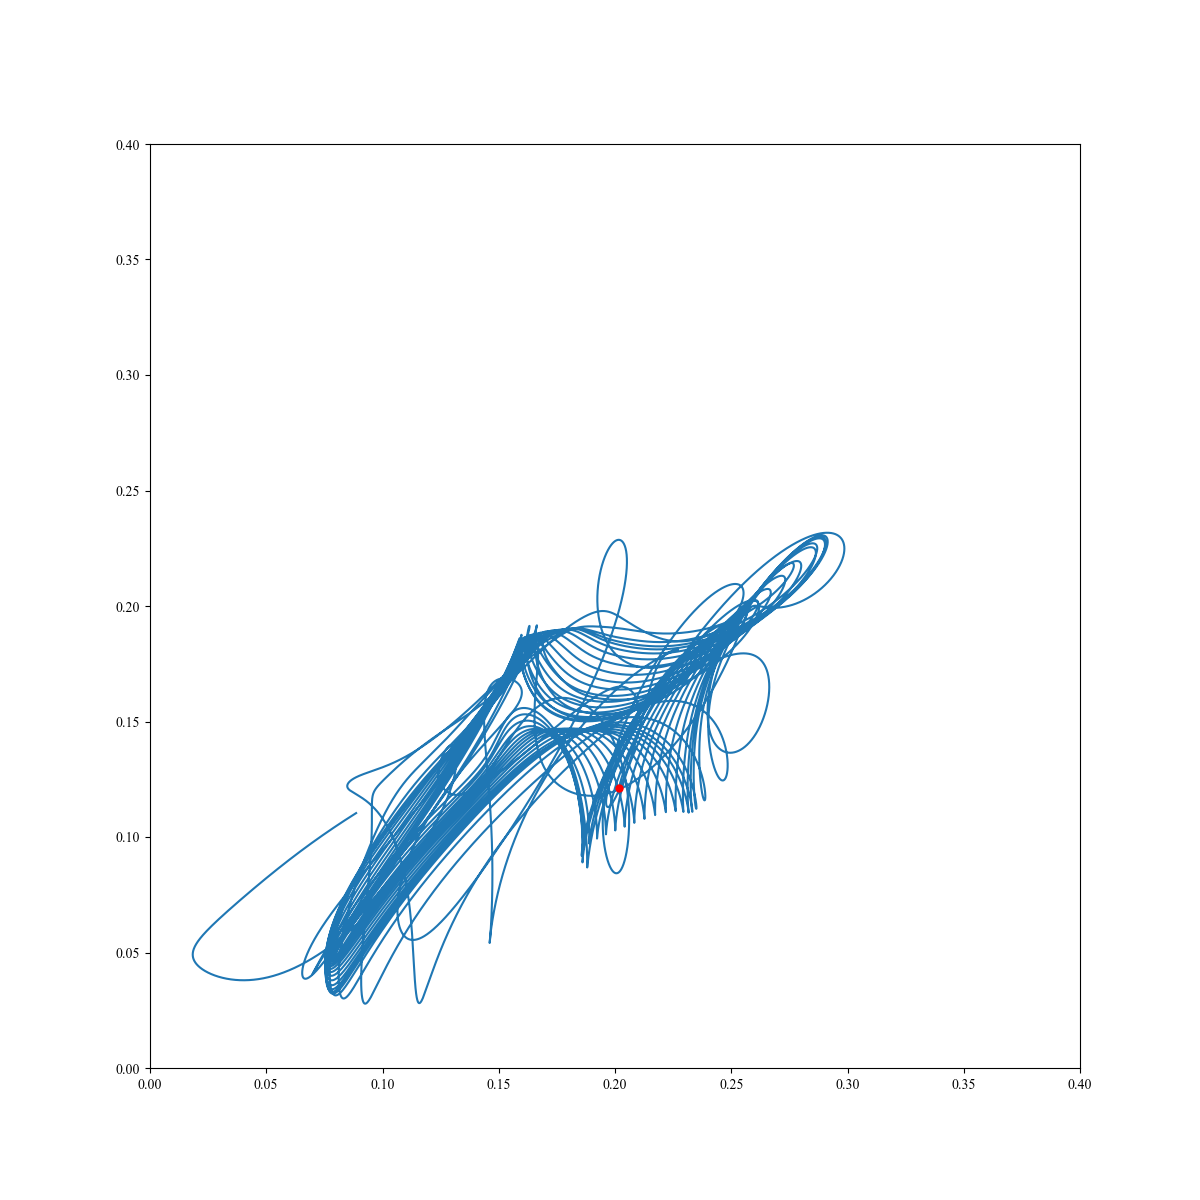
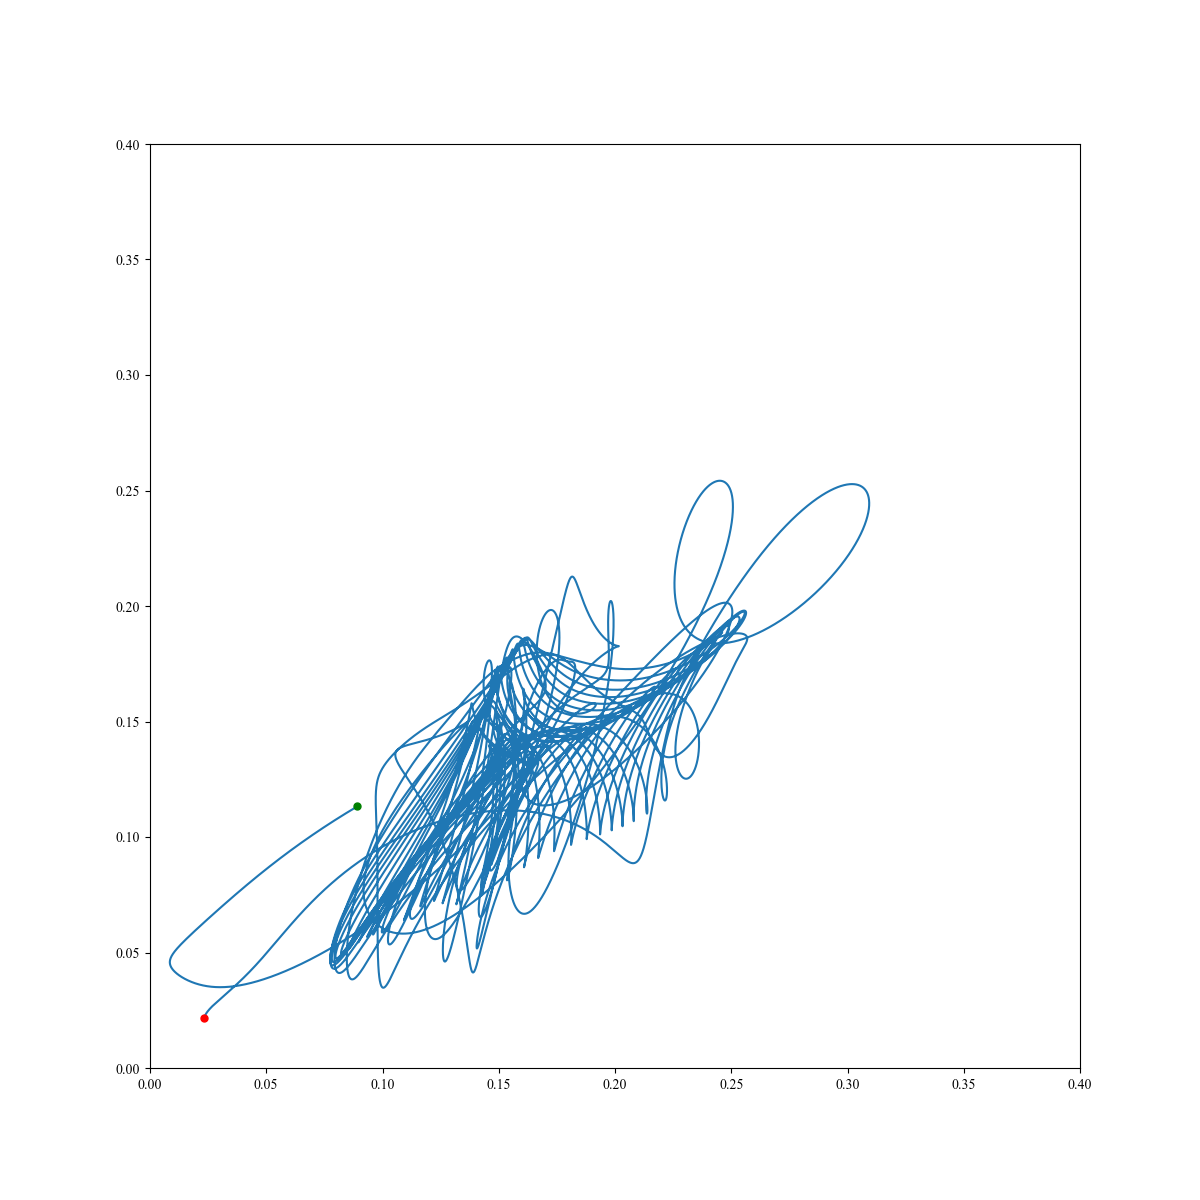
tried sas

diff --git a/code/stagger_and_step_sync.cpp b/code/stagger_and_step_sync.cpp
@@ -30,18 +30,18 @@ std::tuple<Eigen::VectorXd, Eigen::VectorXd, Eigen::VectorXcd> calc_next(ShellMo
 int main(){
     auto start = std::chrono::system_clock::now(); // 計測開始時間
     const double nu = 0.00018;
-    const double beta = 0.423;
+    const double beta = 0.427;
     const std::complex<double> f = std::complex<double>(1.0,1.0) * 5.0 * 0.001;
     const double dt = 0.01;
     const double t_0 = 0;
-    const double t = 10000;
+    const double t = 2000;
     const double latter = 1;
     const double check = 2000;
-    const double progress = 10;
+    const double progress =2000;
     int limit = 1e+5; //limitation of trial of stagger and step
-    Eigen::MatrixXcd loaded = npy2EigenMat<std::complex<double>>("../../generated_lam/sync_gen_laminar_beta_0.421nu_0.00018_dt0.01_10000period2200check10progress10^-13-10^-5perturb_4-7_4-10_4-13_7-10_7-13_10-13_5-8_5-11_5-14_8-11_8-14_11-14_6-9_6-12_9-12.npy");
-    Eigen::VectorXcd x_0 = loaded.block(0, t_0*100, 14, 1);
-    // Eigen::VectorXcd x_0 = npy2EigenVec<std::complex<double>>("../../initials/beta0.421_nu0.00018_804period_dt0.01eps0.005.npy");
+    Eigen::MatrixXcd loaded = npy2EigenMat<std::complex<double>>("../../generated_lam/sync_gen_laminar_beta_0.425nu_0.00018_dt0.01_10000period2500check10progress10^-13-10^-10perturb_4-7_4-10_4-13_7-10_7-13_10-13_5-8_5-11_5-14_8-11_8-14_11-14_6-9_6-12_9-12.npy");
+    Eigen::VectorXcd x_0 = loaded.block(0, 5000*100, 14, 1);
+    // Eigen::VectorXcd x_0 = npy2EigenVec<std::complex<double>>("../../initials/beta0.427_nu0.00018_2000period_dt0.01_4-7_4-10_4-13_7-10_7-13_10-13_5-8_5-11_5-14_8-11_8-14_11-14_6-9_6-12_9-12.npy");
     ShellModel SM(nu, beta, f, dt, t_0, t, latter, x_0);
     Eigen::MatrixXcd Dummy_Laminar(x_0.rows()+1, 1); //dummy matrix to use LongLaminar Class
     LongLaminar LL(nu, beta, f, dt, t_0, t, latter, x_0, Dummy_Laminar, 0.01, 100, check, progress, 8);
@@ -49,19 +49,19 @@ int main(){
 
     //make pairs of shells to observe phase difference(num begins from 1)
     std::vector<std::tuple<int, int, double>> sync_pairs;
-    sync_pairs.push_back(std::make_tuple(4, 7, 2.2));
-    sync_pairs.push_back(std::make_tuple(4, 10, 2.2));
-    sync_pairs.push_back(std::make_tuple(4, 13, 2.2));
-    sync_pairs.push_back(std::make_tuple(7, 10, 1.4));
-    sync_pairs.push_back(std::make_tuple(7, 13, 1.4));
-    sync_pairs.push_back(std::make_tuple(10, 13, 6E-2));
+    sync_pairs.push_back(std::make_tuple(4, 7, 2.5));
+    sync_pairs.push_back(std::make_tuple(4, 10, 2.5));
+    sync_pairs.push_back(std::make_tuple(4, 13, 2.5));
+    sync_pairs.push_back(std::make_tuple(7, 10, 1.8));
+    sync_pairs.push_back(std::make_tuple(7, 13, 1.8));
+    sync_pairs.push_back(std::make_tuple(10, 13, 8E-2));
 
-    sync_pairs.push_back(std::make_tuple(5, 8, 2.2));
-    sync_pairs.push_back(std::make_tuple(5, 11, 2.2));
-    sync_pairs.push_back(std::make_tuple(5, 14, 2.2));
-    sync_pairs.push_back(std::make_tuple(8, 11, 0.6));
-    sync_pairs.push_back(std::make_tuple(8, 14, 0.6));
-    sync_pairs.push_back(std::make_tuple(11, 14, 1.5E-2));
+    sync_pairs.push_back(std::make_tuple(5, 8, 2.3));
+    sync_pairs.push_back(std::make_tuple(5, 11, 2.3));
+    sync_pairs.push_back(std::make_tuple(5, 14, 2.3));
+    sync_pairs.push_back(std::make_tuple(8, 11, 0.7));
+    sync_pairs.push_back(std::make_tuple(8, 14, 0.7));
+    sync_pairs.push_back(std::make_tuple(11, 14, 2E-2));
 
     sync_pairs.push_back(std::make_tuple(6, 9, 2.2));
     sync_pairs.push_back(std::make_tuple(6, 12, 2.2));
@@ -170,7 +170,7 @@ int main(){
                 ShellModel Local_SM = SM; // copy of SM
                 std::vector<std::tuple<int, int, double>> Local_sync_pairs = sync_pairs; // copy of sync_pairs
                 double Local_now_time = Local_SM.get_t_0_();
-                Eigen::VectorXcd Local_x_0 = Local_LL.perturbation_(Local_SM.get_x_0_(), -14, -4);
+                Eigen::VectorXcd Local_x_0 = Local_LL.perturbation_(Local_SM.get_x_0_(), -14, -5);
                 Eigen::VectorXcd Local_now = Local_x_0; // perturbed initial state
                 Eigen::MatrixXcd Local_trajectory = Eigen::MatrixXcd::Zero(Local_now.rows()+1, progress_steps+1); //wide matrix for progress
                 Local_trajectory.topLeftCorner(Local_now.rows(), 1) = Local_now;
